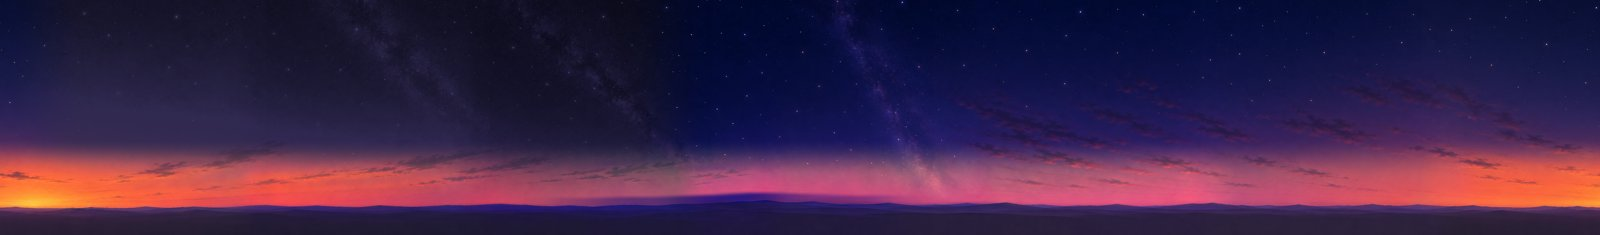
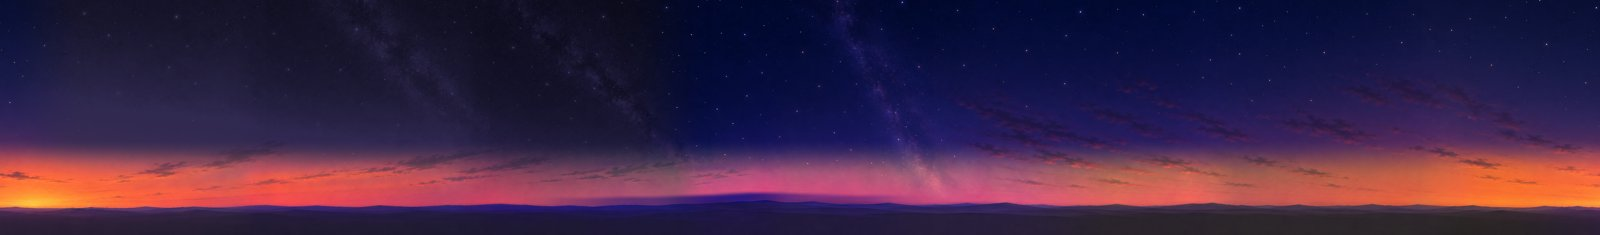
E409 Signal Dunes: REVERT 52d05dae0's dusk-thickening fog (the lead's ruling after round 20); aerial perspective toward the horizon sky's lighter violet-blue at one density; the fire's core by its place in the flame; B's band toward orange
- 52d05dae0 tripled the fog's density with the dusk toward a near-black violet: the round-10 fade to black under the
  fog's name, which counts toward the void. Removed. The engine's distance fog is one density (0.0028) at every dusk step.
- Its colour is the horizon sky's lighter violet-blue (0x5e5288; the late end 0x1a1733). Aerial perspective goes lighter
  and bluer, never toward black (seat B: A's far ranges 36 against 70, blue/red 0.58 against 0.83-0.88).
- The far ranges' haze is full at the sunset step, falling by the late waymarks.
- The fire: the white-hot core is gated by its place in the flame (low and central, over the logs), not by brightness.
  C's pixels over 245: 148 -> ~1 700 (mockup ~2 600), the tongues orange.
- B's horizon band: the early re-colour leans orange in the west (less blue, more green), against the mockup's orange
  (seat B: red-pink, hue 353).

Claude-Session: https://claude.ai/code/session_012htVTtwhjVAvFBGLEQBwnq

Changed region(s): [[0.6562, 0.6851, 0.9688, 0.9234]]

diff --git a/src/shards/sunscar-dunes/look/render.ts b/src/shards/sunscar-dunes/look/render.ts
@@ -29,9 +29,9 @@ export const KEY = { dir: new Vector3(-0.34, 0.2, -0.92).normalize(), color: new
 /** Violet aerial perspective: far dune rows cool and lift into layers (R9), never pink. */
 /** The key's colour at the blue hour (look/dusk.ts): a low red ember of the set sun. */
 const DEEP_KEY = new Color(0.78, 0.42, 0.4);
-export const FOG = { color: 0x221d36, near: 80, far: 430 } as const;
+export const FOG = { color: 0x5e5288, near: 80, far: 430 } as const;
 /** The distance fog's density (the engine's exponential fog, per metre): row 10's aerial perspective. */
-const AERIAL_FOG = 0.0028; // loop 6: a deep dusk haze, not lilac; E409 second top-10 row 10 (aerial perspective: the mockups' far dunes go violet-blue, blue/red 0.62-0.72 against the game's 0.34-0.60): a violet-blue haze
+const AERIAL_FOG = 0.0028; // loop 6: a deep dusk haze, not lilac; E409 second top-10 row 10 (aerial perspective: the mockups' far dunes go violet-blue, blue/red 0.62-0.88): the horizon sky's lighter violet-blue (round 21b)
 // loop 6: lit sand a gold-orange, less saturated and a little lighter than loop 5 (the targets' lit faces)
 // E399 (council round 2, R2B-1: the mockups' ground measures warm brown, R/B ~3): less blue in every tone
 const SAND = new Color(0.5, 0.23, 0.075),
@@ -189,7 +189,7 @@ export function signalDunesLook(): LookStrategy {
       // round 10 (R9B-2: under every dusk horizon the far land is 2-4x the mockups', which put near-black land under a thin
       // glow line): the distance fog, its sun-side tint and the far rings' haze darken as the dusk deepens
       let fog: Fog | null = null, fogSun: Color | null = null, haze: Color | null = null, fogDist: { value: number } | null = null;
-      const fogBase = new Color(), fogSunBase = new Color(), hazeBase = new Color(), DUSK_FOG = new Color(0x0d0b1c);
+      const fogBase = new Color(), fogSunBase = new Color(), hazeBase = new Color(), DUSK_FOG = new Color(0x1a1733);
       return { clock, horizon: new Color(FOG.color), lut: null, clouds: dome,
         // Hide the disc mesh too: `sun.disc: false` only hides its material, and three still uploads (counts) the geometry
         // of a visible mesh whose material is hidden, so the disc's sphere outlived the level (the phone leak check).
@@ -206,14 +206,17 @@ export function signalDunesLook(): LookStrategy {
           fog?.color.copy(fogBase).lerp(DUSK_FOG, late);
           // row 10: the sun-side tint at a third (with the thicker distance fog it lit the far land toward the glow)
           fogSun?.copy(fogSunBase).multiplyScalar(0.35 * (1 - 0.8 * late));
-          haze?.copy(hazeBase).multiplyScalar(1 - 0.75 * late);
+          // round 21b: the far ranges' haze full at the sunset step (A's ranges 36 against 70) and falling to 15 % by the late
+          // waymarks (D's land under the horizon 56 against 17)
+          const hz = Math.min(1, Math.max(0, (DUSK.value - 0.55) / 0.3));
+          haze?.copy(hazeBase).multiplyScalar(1 - 0.85 * hz * hz * (3 - 2 * hz));
           // round 12 (D: a pale haze strip on the far land under the ranges; the mockup's land there near-black): thinner late
           // E409 second top-10 row 10 (aerial perspective): the engine's exponential distance fog thick enough to carry the far
           // dunes toward its violet-blue (~35 % at 150 m; it was ~3 %, thinned late since round 12 when the haze was lilac and
           // paled D's far land), the same at every dusk step
-          // round 21 (D's far bands 40 against 17 at the last waymark's dusk): the night haze thickens with the dusk, toward the
-          // near-black violet DUSK_FOG (the engine fog: darkening by fog is allowed)
-          if (fogDist) fogDist.value = AERIAL_FOG * (1 + 2 * late);
+          // round 21b (seat B after round 20: the haze darkened the far land, A's ranges 36 against 70, blue/red 0.58 against
+          // 0.83-0.88): aerial perspective goes toward the horizon sky's violet-blue, lighter; one density at every dusk step
+          if (fogDist) fogDist.value = AERIAL_FOG;
         },
         rebuild: () => undefined, attachPost: () => undefined };
     },

diff --git a/src/shards/sunscar-dunes/world/fireFx.ts b/src/shards/sunscar-dunes/world/fireFx.ts
@@ -92,7 +92,10 @@ void main() {
     float cover = clamp(lum * 1.7, 0.0, 1.0);
     // mockup C: saturated orange tongues, white only in the core over the logs (the render's yellow-white bleached them)
     c = pow(c, vec3(1.0, 1.35, 1.9)) * vec3(1.2, 0.95, 0.75);
-    c *= 1.0 + 2.4 * smoothstep(0.86, 1.0, lum); // round 19 (seat B: the white-hot core 121 px against mockup C's 2 722); round 19b (the boost bleached the tongues): only the brightest
+    // round 21 (seat B: the brightness-gated core fell to 148 px over 245 against mockup C's 2 722, and bleached the tongues
+    // when wider): the white-hot core gated by its place in the flame, low and central over the logs
+    float coreAt = (1.0 - smoothstep(0.1, 0.42, vUv.y)) * (1.0 - smoothstep(0.12, 0.32, abs(vUv.x - 0.5))) * smoothstep(0.3, 0.6, lum);
+    c *= 1.0 + 5.0 * coreAt;
     gl_FragColor = vec4(c * fade, cover * fade);
     return;
   }

diff --git a/art/sunscar-dunes/round-25-sky/early_fix.py b/art/sunscar-dunes/round-25-sky/early_fix.py
@@ -33,6 +33,12 @@ ratio = (blur(e2) + 4.0) / (blur(late) + 4.0)
 # at or under 1, its green pulled toward its red
 ratio[..., 2] = np.minimum(ratio[..., 2], 1.0)
 ratio[..., 1] = 0.5 * (ratio[..., 1] + ratio[..., 0])
+# round 21b (seat B after round 20: B's band red-pink, hue 353, against the mockup's orange, hue 19): in the west
+# (headings 250-340, eased over 20 deg) the low band's re-colour leans orange: less blue, more green
+Wd = ratio.shape[1]; hd = np.arange(Wd) / (Wd / 360.0)
+wb = np.clip((hd - 230.0) / 20.0, 0, 1) * np.clip((360.0 - hd) / 20.0, 0, 1)
+ratio[..., 2] *= 1.0 - 0.28 * wb[None, :]
+ratio[..., 1] *= 1.0 + 0.14 * wb[None, :]
 H, HOR, PPD = L.shape[0], int(1024 * 0.88), 1536 / 100.0
 elev = (HOR - np.arange(H)) / PPD
 t = np.clip((elev - 5.0) / 9.0, 0, 1)
